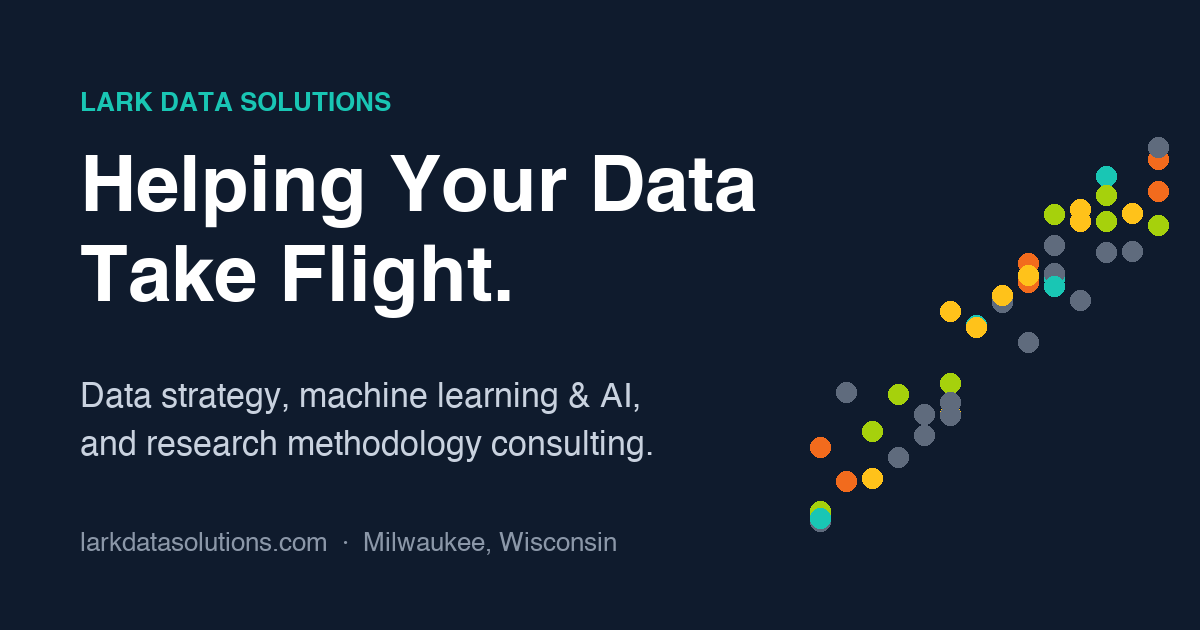
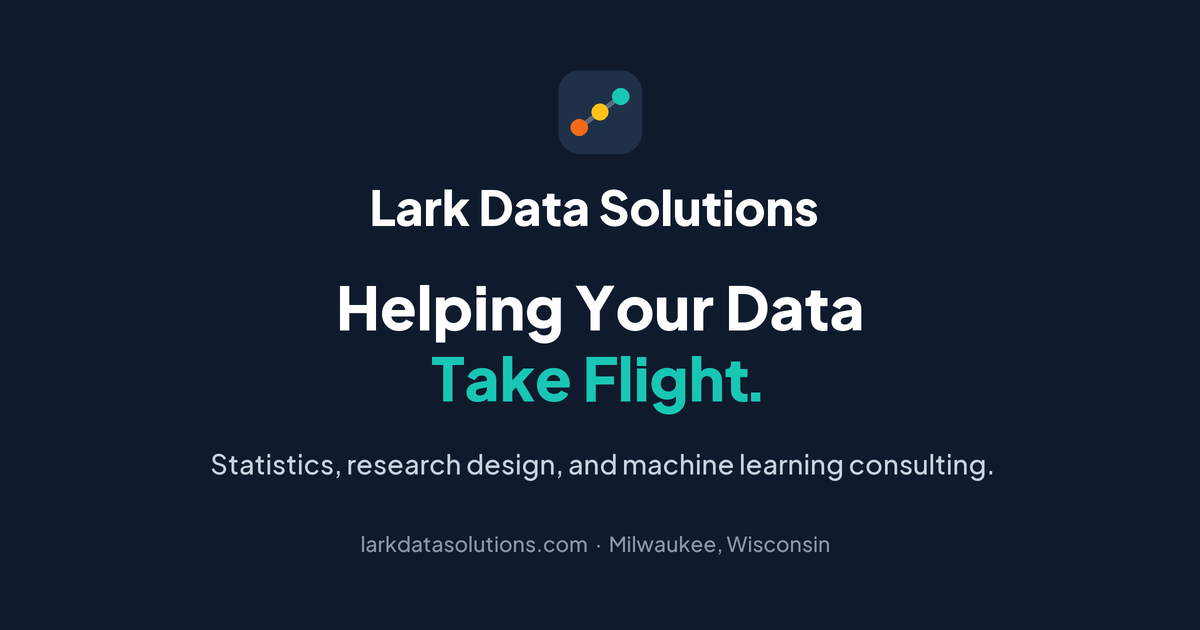
Speed up page load and redo the social card
- Self-host Plus Jakarta Sans (one Latin variable woff2) instead of loading Google Fonts
- Serve smaller responsive versions of the hero graphic and partner photos
- Darken text teal to #08776d to pass WCAG AA contrast
- Remove the Google Fonts sentence from the privacy policy
- New centered social card built from the logo mark, generated by src/og/make_og.py

diff --git a/docs/policies/index.html b/docs/policies/index.html
@@ -35,10 +35,8 @@
   <link rel="icon" href="../favicon.svg" type="image/svg+xml">
   <link rel="apple-touch-icon" href="../apple-touch-icon.png">
 
-  <link rel="preconnect" href="https://fonts.googleapis.com">
-  <link rel="preconnect" href="https://fonts.gstatic.com" crossorigin>
-  <link rel="stylesheet" href="https://fonts.googleapis.com/css2?family=Plus+Jakarta+Sans:wght@400;500;600;700;800&display=swap">
-  <link rel="stylesheet" href="../assets/css/style.css?v=6c280018">
+  <link rel="preload" href="../assets/fonts/plus-jakarta-sans-latin.woff2" as="font" type="font/woff2" crossorigin>
+  <link rel="stylesheet" href="../assets/css/style.css?v=ce1d84a4">
 
   <script type="application/ld+json">
 {
@@ -136,7 +134,7 @@
         <h2 id="privacy">3. Privacy Policy</h2>
         <p>This Privacy Policy describes how larkdatasolutions.com (the "Site") collects, uses, and discloses your Personal Information when you visit or make an inquiry through the Site.</p>
         <h3>3.1. Collection of Personal Information</h3>
-        <p>When you visit the Site, certain technical information about your device and your visit, such as your IP address, browser type, and the pages requested, is collected automatically by our website hosting provider, GitHub Pages (operated by GitHub, Inc.), for security and operational purposes. The Site also loads fonts from Google Fonts, which receives your IP address when serving them. You can find more details in the <a href="https://docs.github.com/en/site-policy/privacy-policies/github-general-privacy-statement" rel="noopener" target="_blank">GitHub General Privacy Statement</a> and <a href="https://policies.google.com/privacy" rel="noopener" target="_blank">Google's Privacy Policy</a>.</p>
+        <p>When you visit the Site, certain technical information about your device and your visit, such as your IP address, browser type, and the pages requested, is collected automatically by our website hosting provider, GitHub Pages (operated by GitHub, Inc.), for security and operational purposes. You can find more details in the <a href="https://docs.github.com/en/site-policy/privacy-policies/github-general-privacy-statement" rel="noopener" target="_blank">GitHub General Privacy Statement</a> and <a href="https://policies.google.com/privacy" rel="noopener" target="_blank">Google's Privacy Policy</a>.</p>
         <p>We use Google Analytics to understand how visitors use the Site. Google Analytics collects information such as the pages you visit, how long you stay, the website that referred you, and your general location, using cookies and similar technologies. You can learn more in Google's explanation of <a href="https://policies.google.com/technologies/partner-sites" rel="noopener" target="_blank">how Google uses information from sites that use its services</a>, and opt out with the <a href="https://tools.google.com/dlpage/gaoptout" rel="noopener" target="_blank">Google Analytics opt-out browser add-on</a>.</p>
         <p>Additionally, we collect information necessary to process your inquiries when you submit our contact form (processed by <a href="https://formspree.io/legal/privacy-policy" rel="noopener" target="_blank">Formspree</a>) or contact us directly. This information may include your name, email address, phone number (if provided), company/organization name, your role/title, industry, and details about your data needs and project goals. We may also collect additional information if you contact us for customer support.</p>
         <h3>3.2. How We Use Your Personal Information</h3>

diff --git a/docs/index.html b/docs/index.html
@@ -35,10 +35,8 @@
   <link rel="icon" href="favicon.svg" type="image/svg+xml">
   <link rel="apple-touch-icon" href="apple-touch-icon.png">
 
-  <link rel="preconnect" href="https://fonts.googleapis.com">
-  <link rel="preconnect" href="https://fonts.gstatic.com" crossorigin>
-  <link rel="stylesheet" href="https://fonts.googleapis.com/css2?family=Plus+Jakarta+Sans:wght@400;500;600;700;800&display=swap">
-  <link rel="stylesheet" href="assets/css/style.css?v=6c280018">
+  <link rel="preload" href="assets/fonts/plus-jakarta-sans-latin.woff2" as="font" type="font/woff2" crossorigin>
+  <link rel="stylesheet" href="assets/css/style.css?v=ce1d84a4">
 
   <script type="application/ld+json">
 {
@@ -299,7 +297,7 @@
           </div>
         </div>
         <div class="hero-art">
-          <img src="assets/img/data-dots.webp" width="1000" height="501" alt="Decorative graphic of orange, yellow, green, teal, and gray dots arranged in rising columns, like a scatter plot" aria-hidden="true" fetchpriority="high">
+          <img src="assets/img/data-dots-720.webp" srcset="assets/img/data-dots-480.webp 480w, assets/img/data-dots-720.webp 720w, assets/img/data-dots.webp 1000w" sizes="(max-width: 860px) min(100vw - 32px, 480px), 480px" width="1000" height="501" alt="Decorative graphic of orange, yellow, green, teal, and gray dots arranged in rising columns, like a scatter plot" aria-hidden="true" fetchpriority="high">
         </div>
       </div>
     </section>
@@ -361,13 +359,13 @@
         </div>
         <div class="grid grid-2">
           <article class="partner" id="amanda-luff">
-            <img src="assets/img/amanda-luff-320.webp" width="96" height="96" alt="Portrait of Amanda Luff, PhD, MPH" loading="lazy">
+            <img src="assets/img/amanda-luff-192.webp" srcset="assets/img/amanda-luff-192.webp 192w, assets/img/amanda-luff-320.webp 320w" sizes="96px" width="96" height="96" alt="Portrait of Amanda Luff, PhD, MPH" loading="lazy">
             <h3>Amanda Luff, PhD, MPH</h3>
             <p class="role">Partner, Statistical Methods &amp; Research Design</p>
             <p>Amanda is a quantitative researcher and data strategist with over a decade of experience analyzing real-world data. She excels at designing and leading complex research, transforming data into clear, evidence-based findings grounded in rigorous methodology and ethical practices.</p>
           </article>
           <article class="partner" id="duncan-clark">
-            <img src="assets/img/duncan-clark-320.webp" width="96" height="96" alt="Portrait of Duncan Clark, PhD" loading="lazy">
+            <img src="assets/img/duncan-clark-192.webp" srcset="assets/img/duncan-clark-192.webp 192w, assets/img/duncan-clark-320.webp 320w" sizes="96px" width="96" height="96" alt="Portrait of Duncan Clark, PhD" loading="lazy">
             <h3>Duncan Clark, PhD</h3>
             <p class="role">Partner, Applied Machine Learning &amp; AI</p>
             <p>Duncan is a data scientist and machine learning specialist with a background in advanced mathematics. He excels at developing custom machine learning models for prediction, classification, natural language processing, and speech recognition.</p>

diff --git a/src/policies_body.html b/src/policies_body.html
@@ -18,7 +18,7 @@
         <h2 id="privacy">3. Privacy Policy</h2>
         <p>This Privacy Policy describes how larkdatasolutions.com (the "Site") collects, uses, and discloses your Personal Information when you visit or make an inquiry through the Site.</p>
         <h3>3.1. Collection of Personal Information</h3>
-        <p>When you visit the Site, certain technical information about your device and your visit, such as your IP address, browser type, and the pages requested, is collected automatically by our website hosting provider, GitHub Pages (operated by GitHub, Inc.), for security and operational purposes. The Site also loads fonts from Google Fonts, which receives your IP address when serving them. You can find more details in the <a href="https://docs.github.com/en/site-policy/privacy-policies/github-general-privacy-statement" rel="noopener" target="_blank">GitHub General Privacy Statement</a> and <a href="https://policies.google.com/privacy" rel="noopener" target="_blank">Google's Privacy Policy</a>.</p>
+        <p>When you visit the Site, certain technical information about your device and your visit, such as your IP address, browser type, and the pages requested, is collected automatically by our website hosting provider, GitHub Pages (operated by GitHub, Inc.), for security and operational purposes. You can find more details in the <a href="https://docs.github.com/en/site-policy/privacy-policies/github-general-privacy-statement" rel="noopener" target="_blank">GitHub General Privacy Statement</a> and <a href="https://policies.google.com/privacy" rel="noopener" target="_blank">Google's Privacy Policy</a>.</p>
         <p>We use Google Analytics to understand how visitors use the Site. Google Analytics collects information such as the pages you visit, how long you stay, the website that referred you, and your general location, using cookies and similar technologies. You can learn more in Google's explanation of <a href="https://policies.google.com/technologies/partner-sites" rel="noopener" target="_blank">how Google uses information from sites that use its services</a>, and opt out with the <a href="https://tools.google.com/dlpage/gaoptout" rel="noopener" target="_blank">Google Analytics opt-out browser add-on</a>.</p>
         <p>Additionally, we collect information necessary to process your inquiries when you submit our contact form (processed by <a href="https://formspree.io/legal/privacy-policy" rel="noopener" target="_blank">Formspree</a>) or contact us directly. This information may include your name, email address, phone number (if provided), company/organization name, your role/title, industry, and details about your data needs and project goals. We may also collect additional information if you contact us for customer support.</p>
         <h3>3.2. How We Use Your Personal Information</h3>

diff --git a/docs/404.html b/docs/404.html
@@ -35,10 +35,8 @@
   <link rel="icon" href="favicon.svg" type="image/svg+xml">
   <link rel="apple-touch-icon" href="apple-touch-icon.png">
 
-  <link rel="preconnect" href="https://fonts.googleapis.com">
-  <link rel="preconnect" href="https://fonts.gstatic.com" crossorigin>
-  <link rel="stylesheet" href="https://fonts.googleapis.com/css2?family=Plus+Jakarta+Sans:wght@400;500;600;700;800&display=swap">
-  <link rel="stylesheet" href="assets/css/style.css?v=6c280018">
+  <link rel="preload" href="assets/fonts/plus-jakarta-sans-latin.woff2" as="font" type="font/woff2" crossorigin>
+  <link rel="stylesheet" href="assets/css/style.css?v=ce1d84a4">
 
   <script type="application/ld+json">
 {

diff --git a/docs/assets/css/style.css b/docs/assets/css/style.css
@@ -1,4 +1,12 @@
 /* Lark Data Solutions — site styles */
+/* Plus Jakarta Sans (SIL Open Font License), Latin subset, variable weight 400-800. Self-hosted for speed. */
+@font-face {
+  font-family: "Plus Jakarta Sans";
+  font-style: normal;
+  font-weight: 400 800;
+  font-display: swap;
+  src: url("../fonts/plus-jakarta-sans-latin.woff2") format("woff2");
+}
 :root {
   --ink: #0f1b2d;
   --ink-soft: #3b4658;
@@ -6,7 +14,7 @@
   --line: #e3e7ee;
   --bg: #ffffff;
   --bg-soft: #f5f7fa;
-  --teal: #0a8c80;
+  --teal: #08776d;
   --teal-bright: #19c6b4;
   --orange: #f26b1d;
   --lime: #a6d10c;

diff --git a/src/og/make_og.py b/src/og/make_og.py
@@ -1,0 +1,62 @@
+"""Draws the social share card (docs/assets/img/og-image.png).
+Run from the repo root: python3 src/og/make_og.py docs/assets/fonts/plus-jakarta-sans-latin.woff2 docs/assets/img/og-image.png
+Layout: the logo mark (docs/assets/img/mark.svg) on its rounded square, centered above the name, tagline, subtitle, and web address.
+When the logo changes, update mark() to draw the new one."""
+import json, os, sys, tempfile
+from fontTools.ttLib import TTFont
+from PIL import Image, ImageDraw, ImageFont
+
+FONT_WOFF2, OUT = sys.argv[1], sys.argv[2]
+# Pillow cannot read WOFF2, so convert the site font to a temporary TTF.
+TTF = os.path.join(tempfile.gettempdir(), "pjs.ttf")
+f = TTFont(FONT_WOFF2); f.flavor = None; f.save(TTF)
+
+def font(size, weight):
+    ft = ImageFont.truetype(TTF, size)
+    ft.set_variation_by_axes([weight])
+    return ft
+
+W, H, S = 1200, 630, 2          # draw at 2x, then downsample for smooth edges
+NAVY, WHITE, TEAL = (15, 27, 45), (255, 255, 255), (25, 198, 180)
+img = Image.new("RGB", (W * S, H * S), NAVY)
+d = ImageDraw.Draw(img)
+
+def text(xy, s, size, weight, fill, spacing=0):
+    x, y = xy[0] * S, xy[1] * S
+    ft = font(size * S, weight)
+    if not spacing:
+        d.text((x, y), s, font=ft, fill=fill); return
+    for ch in s:
+        d.text((x, y), ch, font=ft, fill=fill)
+        x += ft.getlength(ch) + spacing * S
+
+MUTED, SOFT = (138, 150, 168), (201, 210, 222)
+LINE = (95, 108, 128)
+def ctext(y, s, size, weight, fill):
+    w = font(size, weight).getlength(s); text(((W - w) / 2, y), s, size, weight, fill)
+def mark(cx0, cy0, k, square=False):
+    pt = lambda x, y: ((cx0 + (x - 16) * k) * S, (cy0 + (y - 16) * k) * S)
+    if square:
+        d.rounded_rectangle((pt(0, 0)[0], pt(0, 0)[1], pt(32, 32)[0], pt(32, 32)[1]), radius=8 * k * S, fill=(31, 48, 73))
+    d.line([pt(8, 22), pt(24, 10)], fill=LINE, width=round(2 * k * S))
+    for x, y in ((8, 22), (24, 10)):
+        X, Y = pt(x, y); e = k * S; d.ellipse((X - e, Y - e, X + e, Y + e), fill=LINE)
+    for x, y, c in ((8, 22, (242, 107, 29)), (16, 16, (255, 194, 26)), (24, 10, (25, 198, 180))):
+        X, Y = pt(x, y); r = 3.2 * k * S; d.ellipse((X - r, Y - r, X + r, Y + r), fill=c)
+def tag(x, y, HS, center=False):
+    f = font(HS, 800)
+    if center:
+        ctext(y, "Helping Your Data", HS, 800, WHITE)
+        w = f.getlength("Take Flight") + f.getlength(".") - 6; x = (W - w) / 2
+    else:
+        text((x, y), "Helping Your Data", HS, 800, WHITE)
+    text((x, y + HS * 1.18), "Take Flight", HS, 800, TEAL)
+    text((x + f.getlength("Take Flight") - 6, y + HS * 1.18), ".", HS, 800, TEAL)
+mark(W / 2, 112, 2.6, square=True)
+ctext(176, "Lark Data Solutions", 48, 800, WHITE)
+tag(0, 268, 60, center=True)
+ctext(446, "Statistics, research design, and machine learning consulting.", 27, 500, SOFT)
+ctext(530, "larkdatasolutions.com  ·  Milwaukee, Wisconsin", 21, 500, MUTED)
+
+img.resize((W, H), Image.LANCZOS).save(OUT, optimize=True)
+print("ok")

diff --git a/src/build.py b/src/build.py
@@ -124,9 +124,7 @@ def page(path, title, desc, body, schema=None, robots="index, follow"):
   <link rel="icon" href="/favicon.svg" type="image/svg+xml">
   <link rel="apple-touch-icon" href="/apple-touch-icon.png">
 
-  <link rel="preconnect" href="https://fonts.googleapis.com">
-  <link rel="preconnect" href="https://fonts.gstatic.com" crossorigin>
-  <link rel="stylesheet" href="https://fonts.googleapis.com/css2?family=Plus+Jakarta+Sans:wght@400;500;600;700;800&display=swap">
+  <link rel="preload" href="/assets/fonts/plus-jakarta-sans-latin.woff2" as="font" type="font/woff2" crossorigin>
   <link rel="stylesheet" href="/assets/css/style.css?v={CSS_V}">
 
   <script type="application/ld+json">
@@ -202,6 +200,8 @@ def write(rel, html):
     prefix = "../" * rel.count("/")
     html = re.sub(r'(href|src)="/(?!/)([^"]*)"',
                   lambda m: f'{m.group(1)}="{prefix + m.group(2) or "./"}"', html)
+    html = re.sub(r'srcset="([^"]*)"',
+                  lambda m: 'srcset="' + re.sub(r'(^|, )/(?!/)', lambda n: n.group(1) + prefix, m.group(1)) + '"', html)
     # Bing flags images with missing or empty alt text, so every image needs one.
     # Decorative images get alt text plus aria-hidden="true" to keep screen readers quiet.
     for img in re.findall(r"<img\b[^>]*>", html):
@@ -243,7 +243,7 @@ service_cards = "\n".join(f'''          <article class="line-card" id="{l['id']}
           </article>''' for l in LINES)
 
 partner_cards = "\n".join(f'''          <article class="partner" id="{l['lead']['id']}">
-            <img src="/assets/img/{l['lead']['id']}-320.webp" width="96" height="96" alt="Portrait of {l['lead']['name']}" loading="lazy">
+            <img src="/assets/img/{l['lead']['id']}-192.webp" srcset="/assets/img/{l['lead']['id']}-192.webp 192w, /assets/img/{l['lead']['id']}-320.webp 320w" sizes="96px" width="96" height="96" alt="Portrait of {l['lead']['name']}" loading="lazy">
             <h3>{l['lead']['name']}</h3>
             <p class="role">{l['lead']['title']}</p>
             <p>{l['lead']['bio']}</p>
@@ -285,7 +285,7 @@ home = f'''    <section class="hero">
           </div>
         </div>
         <div class="hero-art">
-          <img src="/assets/img/data-dots.webp" width="1000" height="501" alt="Decorative graphic of orange, yellow, green, teal, and gray dots arranged in rising columns, like a scatter plot" aria-hidden="true" fetchpriority="high">
+          <img src="/assets/img/data-dots-720.webp" srcset="/assets/img/data-dots-480.webp 480w, /assets/img/data-dots-720.webp 720w, /assets/img/data-dots.webp 1000w" sizes="(max-width: 860px) min(100vw - 32px, 480px), 480px" width="1000" height="501" alt="Decorative graphic of orange, yellow, green, teal, and gray dots arranged in rising columns, like a scatter plot" aria-hidden="true" fetchpriority="high">
         </div>
       </div>
     </section>

diff --git a/Brand.md b/Brand.md
@@ -12,7 +12,7 @@ Defined as tokens at the top of `docs/assets/css/style.css`.
 | Token | Hex | Use |
 |---|---|---|
 | `--ink` | #0f1b2d | Text, dark backgrounds, buttons |
-| `--teal` | #0a8c80 | Links, labels (dark enough for text contrast) |
+| `--teal` | #08776d | Links, labels, roles (darkened from #0a8c80 in Oct 2026 to pass WCAG AA contrast on the light gray sections) |
 | `--teal-bright` | #19c6b4 | Accents, checkmarks, dots |
 | `--orange` | #f26b1d | Accent dot |
 | `--lime` | #a6d10c | Accent dot |
@@ -20,11 +20,11 @@ Defined as tokens at the top of `docs/assets/css/style.css`.
 
 The accent colors come from the dot graphic on the original site (`docs/assets/img/data-dots.webp`, used as the home page hero art).
 
-Font: **Plus Jakarta Sans** (Google Fonts), weights 400 to 800.
+Font: **Plus Jakarta Sans**, weights 400 to 800. Self-hosted as one variable file, Latin characters only: `docs/assets/fonts/plus-jakarta-sans-latin.woff2` (from Google Fonts, SIL Open Font License).
 
 ## Current logo (placeholder)
 
-Three dots (orange, gold, teal) rising on a navy rounded square: `docs/assets/img/mark.svg`, `docs/favicon.svg`, `docs/favicon.ico`, `docs/apple-touch-icon.png`. The social share image is `docs/assets/img/og-image.png` (navy, tagline, dot cluster). The header pairs the mark with the text "Lark / DATA SOLUTIONS". This stays until a new logo is chosen.
+Three dots (orange, gold, teal) rising on a navy rounded square: `docs/assets/img/mark.svg`, `docs/favicon.svg`, `docs/favicon.ico`, `docs/apple-touch-icon.png`. The social share card is `docs/assets/img/og-image.png` (1200x630, navy, everything centered: the logo mark on its rounded square, "Lark Data Solutions," the tagline, "Statistics, research design, and machine learning consulting.", and the web address with Milwaukee. Chosen after rejecting versions with the dot plot and with a large mark on the right, which left awkward empty space). When the logo changes, redraw this card to match. Regenerate it with `src/og/make_og.py` (instructions at the top of that file). The header pairs the mark with the text "Lark / DATA SOLUTIONS". This stays until a new logo is chosen.
 
 ## New logo: what Amanda wants
 

diff --git a/Setup.md b/Setup.md
@@ -60,5 +60,4 @@ How larkdatasolutions.com is hosted and connected, as of October 13, 2026.
 - [ ] Set up a Google Business Profile for local search.
 - [ ] fspfinder.com footer still says "a service of Lark Data Solutions LLC" (Duncan's site, separate repo).
 - [ ] Optional: make sitemap `lastmod` dates update automatically (currently fixed at 2026-10-13).
-- [ ] Optional: host the Plus Jakarta Sans font locally instead of loading it from Google Fonts (faster first load).
-- [ ] New logo (see `Brand.md`). When it changes, update the logo alt text in `src/build.py` and the `logo` in the structured data.
+- [ ] New logo (see `Brand.md`). When it changes, update the logo alt text in `src/build.py`, the `logo` in the structured data, and the social card (`src/og/make_og.py`).
